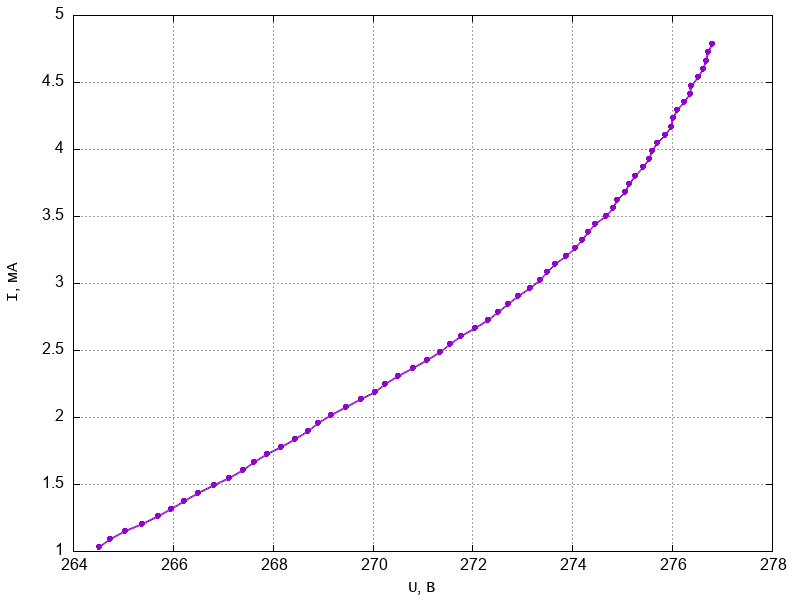
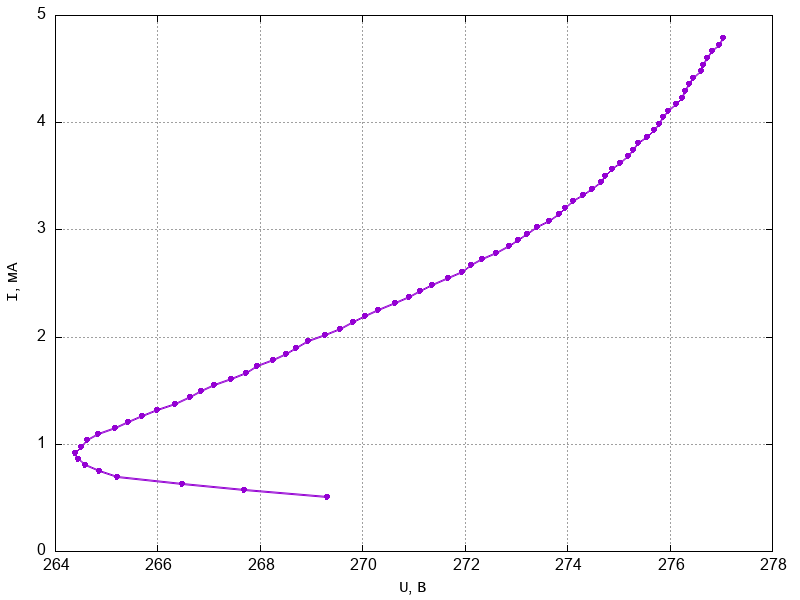
.

diff --git a/main.py b/main.py
@@ -10,59 +10,16 @@ A1 = vi_meter.VI_meter("AKIP,AKIP-2101/2,NDM36GBD4R0068,3.01.01.07")
 
 file_name = "./data.txt"
 
+def found_ignition() :
+    volt_ign, cur_ign = 0, 0
+    volt_src, cur_src = 0, 0
+    cur_prev = 0
 
-def stepToCur(cur_target, save = False, file = None):
+    volt_ign, cur_ign = HV_src.stepToCur(300)
 
-    if save == True and file == None:
-        print("No enter file")
-        return
-
-    volt_src, cur_src = HV_src.read()
-
-    print(f"Step to {cur_target} uA")
-    print(f"Current V: {volt_src} V, I: {cur_src} uA\n")
-
-    v = volt_src
-
-    k = 30
-    if cur_target < cur_src:
-        k *= -1
-    
-    sleep(1)
-    cur_prev = HV_src.read()[1]
-
-    while (cur_target < cur_src) == (k < 0):
-        v += k
-        HV_src.set(v, 5000)
-        sleep(0.3)
-        volt_src, cur_src = HV_src.read()
-
-        if abs(cur_src-cur_prev) > 400:
-            read_tmp = 0
-            volt_src, cur_src = 0, 0
-            sleep(0.2)
-            for i in range(3):
-                read_tmp = HV_src.read()
-                volt_src += read_tmp[0]
-                cur_src += read_tmp[1]
-            cur_src /= 3
-            volt_src /= 3
-
-        cur_prev = cur_src
-        print(f"V: {volt_src} V, I: {cur_src} uA")
-
-        if save == True:
-            sleep(0.2)
-            V1.writeCommand("READ?")
-            A1.writeCommand("READ?")
-            volt_rd = V1.readCommand()*10
-            cur_rd = A1.readCommand()*1000
-            print(f"read V: {volt_rd} V, I: {cur_rd} mA")
-            file.write(f"{volt_rd}\t{cur_rd}\n")
-
-        print()
-
-    print("End step\n")
+    print(f"Ignition: {volt_ign} V, {cur_ign} uA")
+    with open("ignition.txt", "w") as f:
+        f.write(f"{volt_ign} {cur_ign}\n")
 
 def main():
     try:
@@ -78,52 +35,19 @@ def main():
         input("Start?")
 
 
-        volt_ign, cur_ign = 0, 0
-        volt_src, cur_src = 0, 0
-        cur_prev = 0
-
-        for v in range(1000, 2301, 20):
-            HV_src.set(v, 5000)
-            print(f"Set: {v} V, 5 mA")
-
-            sleep(0.3)
-
-            volt_src, cur_src = HV_src.read()
-            if abs(cur_src-cur_prev) > 400:
-                read_tmp = 0
-                volt_src, cur_src = 0, 0
-                print("--Fire--")
-                sleep(2)
-                for i in range(10):
-                    read_tmp = HV_src.read()
-                    volt_src += read_tmp[0]
-                    cur_src += read_tmp[1]
-                cur_src /= 10
-                volt_src /= 10
-                volt_ign, cur_ign = volt_src, cur_src
-                break
-            
-            cur_prev = cur_src
-            print(f"source V: {volt_src} V, I: {cur_src} uA")
-            print()
-
-
         
-        print(f"Ignition: {volt_ign} V, {cur_ign} uA")
-        with open("ignition.txt", "w") as f:
-            f.write(f"{volt_ign} {cur_ign}\n")
 
-        stepToCur(1000)
-        stepToCur(4800, save=True, file=file)
+        HV_src.stepToCur(500)
+        HV_src.stepToCur(4800, file=file, V1=V1, A1=A1)
 
     except Exception as e:
         print(f"Общая ошибка: {e}")
         
     finally:
         file.close()
-        HV_src.deInit()
-        V1.reset()
-        A1.reset()
+        # HV_src.deInit()
+        # V1.reset()
+        # A1.reset()
 
 
 if __name__ == "__main__":

diff --git a/Source_HV/src_hv.py b/Source_HV/src_hv.py
@@ -36,6 +36,11 @@ class HV_source:
         self.port = port
         self.ser = Serial(port, 38400)
 
+    def __del__(self):
+        if not self.ser.checkPortState():
+            return
+        self.deInit()
+    
     ser = None
 
     def init(self):
@@ -87,5 +92,57 @@ class HV_source:
         I //= Ki
 
         return [V, I]
+    
+    def stepToCur(self, curr_target, file = None, V1 = None, A1 = None):
+        if file != None and (V1 == None or A1 == None):
+            print("No meters")
+            return
+        
+        volt_cur, curr_cur = self.read()
+
+        print(f"Step to {curr_target} uA")
+        print(f"Current V: {volt_cur} V, I: {curr_cur} uA\n")
+
+        k = 30
+        if curr_target < curr_cur:
+            k *= -1
+        
+        sleep(0.5)
+        cur_prev = curr_cur
+
+        while (curr_target < curr_src) == (k < 0):
+            volt_cur += k
+            self.set(volt_cur, 5000)
+            sleep(0.3)
+            volt_src, curr_src = self.read()
+
+            if abs(curr_src-cur_prev) > 300:
+                read_tmp = 0
+                volt_src, curr_src = 0, 0
+                sleep(1)
+                for i in range(10):
+                    read_tmp = self.read()
+                    volt_src += read_tmp[0]
+                    curr_src += read_tmp[1]
+                    sleep(0.1)
+                curr_src /= 10
+                volt_src /= 10
+
+            cur_prev = curr_src
+            print(f"V: {volt_src} V, I: {curr_src} uA")
+
+            if file != None:
+                sleep(0.2)
+                V1.writeCommand("READ?")
+                A1.writeCommand("READ?")
+                volt_rd = V1.readCommand()*10
+                cur_rd = A1.readCommand()*1000
+                print(f"read V: {volt_rd} V, I: {cur_rd} mA")
+                file.write(f"{volt_rd}\t{cur_rd}\n")
+
+            print()
+
+        print("End step\n")
+        return [volt_src, curr_src]
 
 

diff --git a/VImeter/vi_meter.py b/VImeter/vi_meter.py
@@ -39,6 +39,11 @@ class VI_meter:
     def __init__(self, id):
         self.id = id
         
+    def __del__(self):
+        if self.device == "":
+            return
+        self.reset()
+        
     id = ""
     device = ""
 
